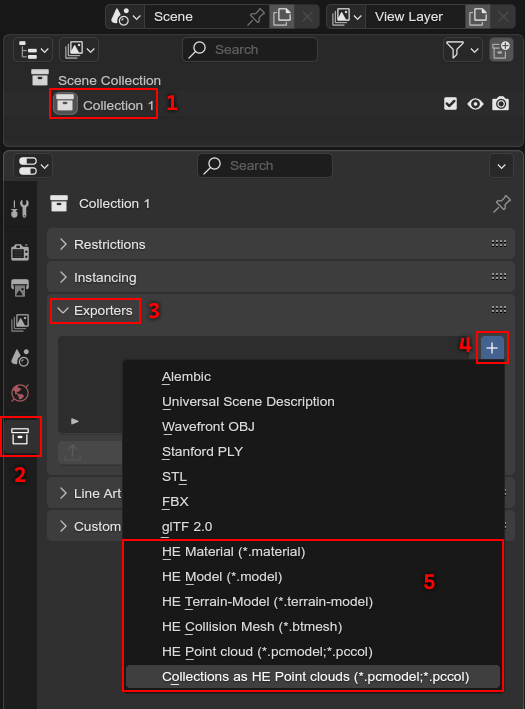
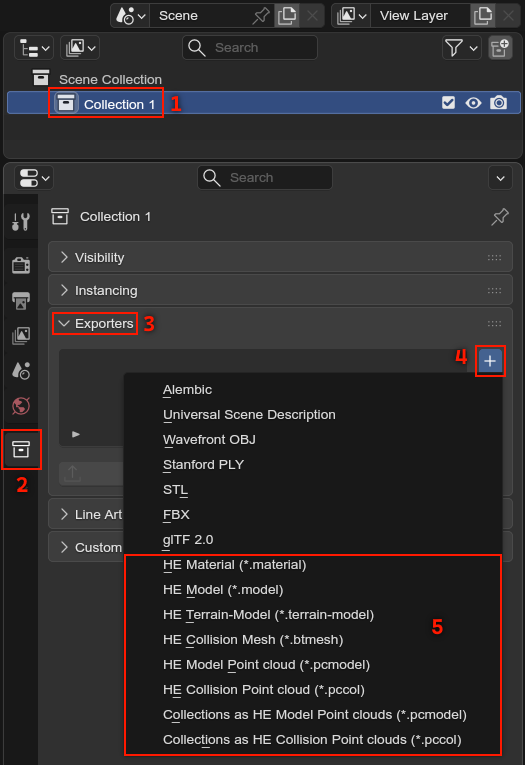
Updated manual

diff --git a/manual/source/user_interface/tools/exporters.rst b/manual/source/user_interface/tools/exporters.rst
@@ -152,9 +152,9 @@ Advanced
 		Only available for games released after Sonic Forces. Sonic Forces and older can only use
 		triangle strips.
 
-	Optimized Vertex Data
+	Compressed Vertex Data
 		Vertex data can be stored in different ways, often depending on the game. By default,
-		data is stored with optimized / compressed formats, but doesn't have to.
+		data is stored with compressed formats, but doesn't have to.
 
 		Not available for HE1 PC games.
 
@@ -179,11 +179,7 @@ No unique export options for collision mesh export.
 Point cloud export
 ==================
 
-Cloud type
-	Type of point cloud to export.
-
-	- ``Terrain``: Exports collected object trees as a .pcmodel file, as well as corresponding .terrain-model and .model files.
-	- ``Collision``: Exports collected object trees as a .pccol file, as well as corresponding .btmesh files.
+Which point cloud type you export depends on which exporter you picked.
 
 Write Resources
 	Whether to evaluate and export resource files (like .terrain-model). Otherwise exports only the point cloud file.

diff --git a/manual/source/guides/asset_importing.rst b/manual/source/guides/asset_importing.rst
@@ -79,6 +79,7 @@ Usually models are imported standalone, but can also be part of a ``.pcmodel`` f
 
 		Where to find the importer
 
+
 Terrain models
 --------------
 
@@ -91,15 +92,7 @@ Terrain models, stored in ``.terrain-model`` files, are nearly identical to mode
 While they too can be imported standalone, they are usually part of ``.pcmodel`` files (HE2) or
 referenced by ``.terrain-instanceinfo`` files (HE1) (not yet supported)
 
-.. dropdown:: How to import .terrain-model files
-	:icon: download
-
-	Open :ref:`the importer <bpy.ops.heio.import_terrain_model>`, select your
-	file(s) to import, configure the import properties and then confirm.
-
-	.. figure:: images/asset_importing_terrain_model.png
-
-		Where to find the importer
+They are imported the same way that ``.model`` files are.
 
 
 Collision meshes

diff --git a/manual/source/getting_started/contact.rst b/manual/source/getting_started/contact.rst
@@ -3,6 +3,8 @@
 Contact
 *******
 
-If you find yourself having questions, feel free to join the `Hedgehog modding discord <https://dc.railgun.works/hems>`_.
+If you find yourself having questions, feel free to join the 
+- `Hedgehog Engine Modding discord server <https://dc.railgun.works/hems>`_ - A Hedgehog engine modding community
+- `HedgeServer discord <https://discord.gg/w2zxCqMcSV>`_ - Server specific to solving modding problems
 
 In case you encountered bugs or similar, please open an issue on the `addons Github repository <https://github.com/hedge-dev/HedgehogEngineBlenderIO/issues>`_.

diff --git a/manual/source/tutorials/shadow_gens_character_mod.rst b/manual/source/tutorials/shadow_gens_character_mod.rst
@@ -148,8 +148,8 @@ Once your model is prepared, it's time to bring it ingame!
 	The model i prepared (armature is hidden)
 
 
-To do so, let's set up a collection operator again! Put the armature and it's children in a new
-collection, then add a ``.model`` exporter to it that exports to a ``dummy.model`` file in your
+To do so, let's set up a collection operator again! Select the collection that the model imported 
+with and add a ``.model`` exporter to it that exports to a ``dummy.model`` file in your
 mods ``shadow`` directory:
 
 

diff --git a/manual/source/getting_started/installation.rst b/manual/source/getting_started/installation.rst
@@ -3,10 +3,14 @@
 Installing HEIO
 ***************
 
+.. attention::
+
+	Right now, only x64-Windows and x64-Linux are supported!
+
 Installing Blender
 ==================
 
-| The Addon is only supported on `Blender <https://blender.org/>`_ version 5.0 and above.
+| The Addon is only supported on `Blender <https://blender.org/>`_ version 4.5 and above.
 | It is recommended to install blender through `Steam <https://store.steampowered.com/app/365670>`_. This will ensure you're always using the latest release version.
 
 
